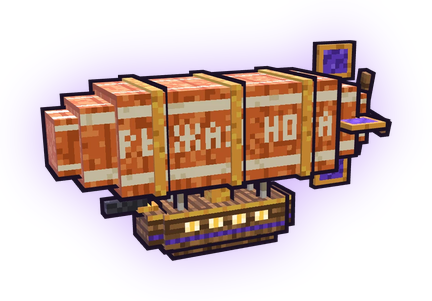
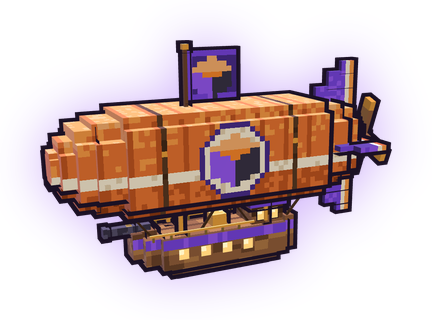
shell: the sign stands on its fog, a pixel cube in the sidebar, the new airship
- «ИГРАТЬ» rises 14 px and stands on the fog tuft, which now lies over the bar's edge with its wisps hanging into
  the bar, as in the game's menu; «Сразу на сервер» sits under the wisps
- the sidebar logo is the HedgeFox cube drawn as 16x16 pixel art at x2 instead of the smooth app icon
- the news cards on «Играть» are flat and see-through (no hard shadow, no purple top edge) with more room above the
  sign
- Escape closes the list of versions wherever the focus is; the shots harness closes it with Escape and fails if
  it stays open
- on a short window the moon and the airship climb towards the top, so the Настройки and Профиль panels no longer
  cover them at 1000x620
- Menu/ship.png is the main repo's regenerated sprite: the redrawn airship with the cube roundel and the flag

diff --git a/src/Gml.Launcher/Views/HedgeFox/Controls/HfMenuScene.cs b/src/Gml.Launcher/Views/HedgeFox/Controls/HfMenuScene.cs
@@ -135,9 +135,11 @@ public class HfMenuScene : Control, ICustomHitTest
             }
         }
 
-        // the moon, ×2 (cells of 4 px), left of the title
+        // the moon, ×2 (cells of 4 px), left of the title; on a short window it climbs towards the top (17 % of the
+        // height at 720 px, 8 px at the minimum 620) so the panels of Настройки and Профиль leave it clear
         var moon = HfMenuArt.Get("moon.png");
-        context.DrawImage(moon, new Rect(Math.Round(Math.Max(16, w * 0.035)), Math.Round(h * 0.17), 144, 144));
+        var moonY = h >= 720 ? h * 0.17 : Math.Max(8, h * 0.17 - (720 - h) * 0.97);
+        context.DrawImage(moon, new Rect(Math.Round(Math.Max(16, w * 0.035)), Math.Round(moonY), 144, 144));
 
         // the peaks at a whole scale that covers the width, the hub on the right; never higher than 38 % of the
         // window, so on short windows the snow stays under the menu column
@@ -167,13 +169,16 @@ public class HfMenuScene : Control, ICustomHitTest
         DrawFog(context, HfMenuArt.Get("fog-back.png"), w, h - 88, 0.9, (long)(ms / 1000 * FogBackSpeed / 2) * 2);
 
         // the airship in the top right corner, above the hub and beside the title (the site's first screen): never
-        // over the title or the hub; bobbing 2 px (smooth: a minified illustration, not a 1:1 sprite)
+        // over the title or the hub; bobbing 2 px (smooth: a minified illustration, not a 1:1 sprite). Like the moon it
+        // climbs on a short window (13 % of the height at 720 px, just under the title bar at 620) so it clears the
+        // top of the Настройки and Профиль panels
         var ship = HfMenuArt.Get("ship.png");
-        var sw = Math.Round(Math.Clamp(w / 2 - 288 - 40, 150, 260));
+        var sw = Math.Round(Math.Clamp(w / 2 - 288 - 40, 140, 260));
         var sh = Math.Round(sw * ship.PixelSize.Height / ship.PixelSize.Width);
         var bob = (long)(ms / BobHalfMs) % 2 == 1 ? -2 : 0;
+        var shipY = h >= 720 ? h * 0.13 : Math.Max(36, h * 0.13 - (720 - h) * 0.45);
         using (context.PushRenderOptions(new RenderOptions { BitmapInterpolationMode = BitmapInterpolationMode.HighQuality }))
-            context.DrawImage(ship, new Rect(Math.Round(w - sw - 12), Math.Round(h * 0.13) + bob, sw, sh));
+            context.DrawImage(ship, new Rect(Math.Round(w - sw - 12), Math.Round(shipY) + bob, sw, sh));
 
         // the near fog on the ground
         DrawFog(context, HfMenuArt.Get("fog-front.png"), w, h - 44, 0.85, (long)(ms / 1000 * FogFrontSpeed / 2) * 2);

diff --git a/src/Gml.Launcher/Views/HedgeFox/HfOverviewView.axaml.cs b/src/Gml.Launcher/Views/HedgeFox/HfOverviewView.axaml.cs
@@ -1,5 +1,8 @@
 using System;
+using Avalonia;
+using Avalonia.Controls;
 using Avalonia.Input;
+using Avalonia.Interactivity;
 using Avalonia.Markup.Xaml;
 using Gml.Launcher.ViewModels.HedgeFox;
 using Gml.Launcher.ViewModels.Pages;
@@ -14,6 +17,30 @@ public partial class HfOverviewView : HfPageView<OverviewPageViewModel, HfOvervi
     }
 
     protected override HfOverviewModel CreateModel(OverviewPageViewModel page) => new(page);
+
+    private TopLevel? _top;
+
+    protected override void OnAttachedToVisualTree(VisualTreeAttachmentEventArgs e)
+    {
+        base.OnAttachedToVisualTree(e);
+        _top = TopLevel.GetTopLevel(this);
+        _top?.AddHandler(KeyDownEvent, OnKey, RoutingStrategies.Tunnel);
+    }
+
+    protected override void OnDetachedFromVisualTree(VisualTreeAttachmentEventArgs e)
+    {
+        _top?.RemoveHandler(KeyDownEvent, OnKey);
+        _top = null;
+        base.OnDetachedFromVisualTree(e);
+    }
+
+    /// <summary>Escape closes the open list of versions, wherever the focus is.</summary>
+    private void OnKey(object? sender, KeyEventArgs e)
+    {
+        if (e.Key != Key.Escape || Model is not { Picker.IsOpen: true } model) return;
+        model.Picker.CloseCommand.Execute().Subscribe();
+        e.Handled = true;
+    }
 
     /// <summary>A click beside the open list of versions closes it.</summary>
     private void OnDismiss(object? sender, PointerPressedEventArgs e)

diff --git a/tools/shots/Program.cs b/tools/shots/Program.cs
@@ -11,6 +11,7 @@ using System.Reactive.Linq;
 using Avalonia;
 using Avalonia.Controls;
 using Avalonia.Headless;
+using Avalonia.Input;
 using Avalonia.ReactiveUI;
 using Avalonia.Threading;
 using Avalonia.VisualTree;
@@ -169,8 +170,9 @@ void Screens(int width, int height, string size)
     picker.ToggleCommand.Execute().Subscribe();
     Ui.PumpUntil(() => picker.IsOpen, "versions list");
     Save(main, "overview-versions" + size);
-    picker.CloseCommand.Execute().Subscribe();
-    Ui.PumpUntil(() => !picker.IsOpen, "versions list closed");
+    // Escape closes it (the window's key, wherever the focus is)
+    main.KeyPressQwerty(PhysicalKey.Escape, RawInputModifiers.None);
+    Ui.PumpUntil(() => !picker.IsOpen, "versions list closed by Escape", 3000);
 
     // toasts as the stock view models queue them (their fills only pick the left bar): an error, a success, the VPN
     // note and «reconnecting» with its overlay bar
